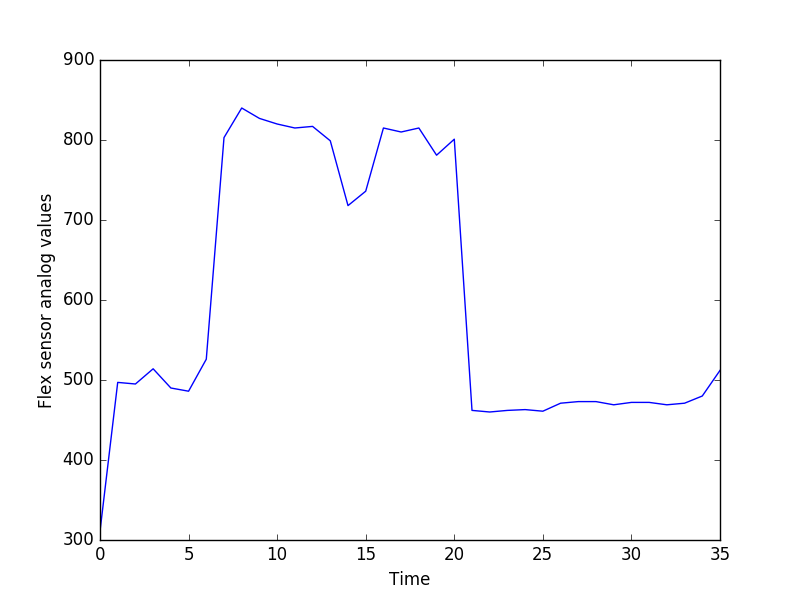
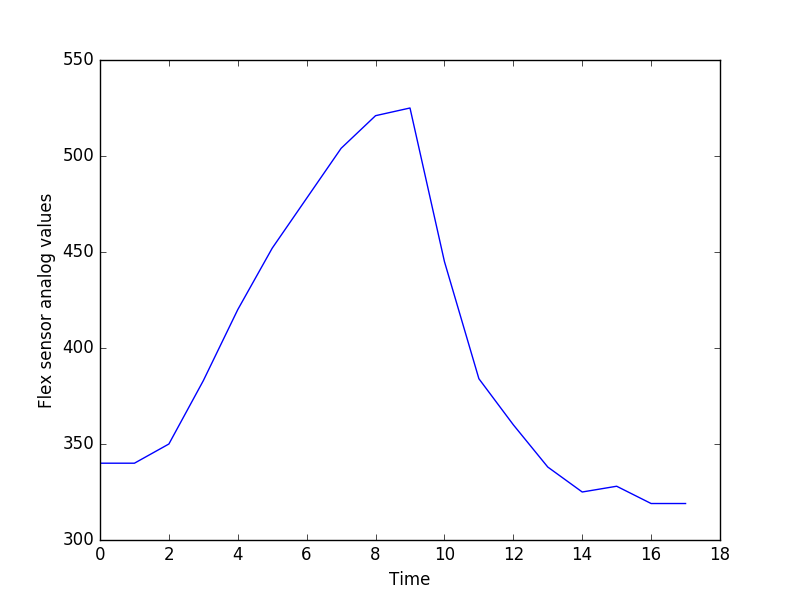
Updates data points, code and graph to accomodate new flex sensor analog range

diff --git a/flex_plot.py b/flex_plot.py
@@ -12,6 +12,7 @@ flex_file = open('flex.txt', 'r')
 
 flex_arr = [int(line) for line in flex_file]
 
+#flex_arr = flex_arr[5:]
 # Bad Flex sensor value
 if 1023 in flex_arr:
     flex_arr.remove(1023)
